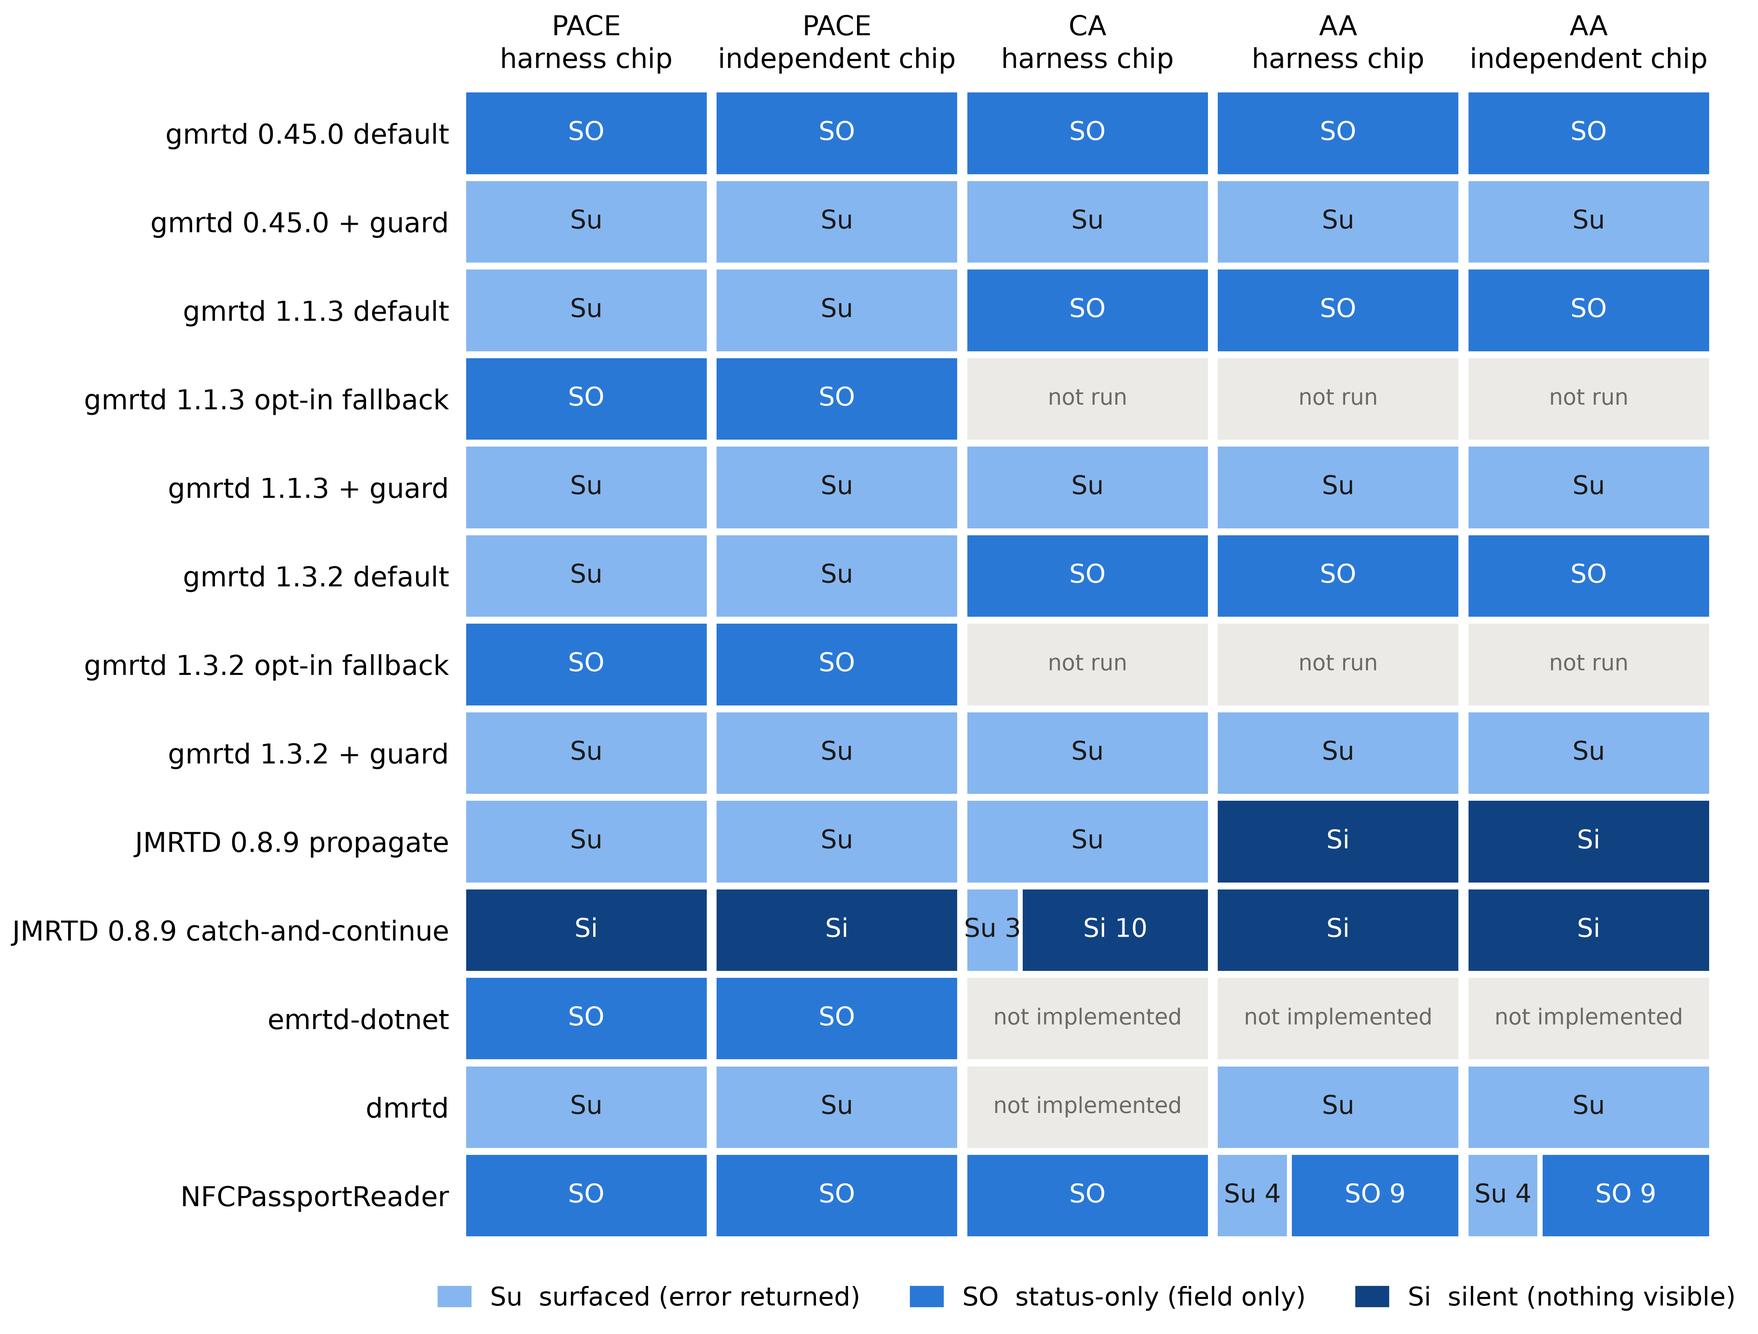
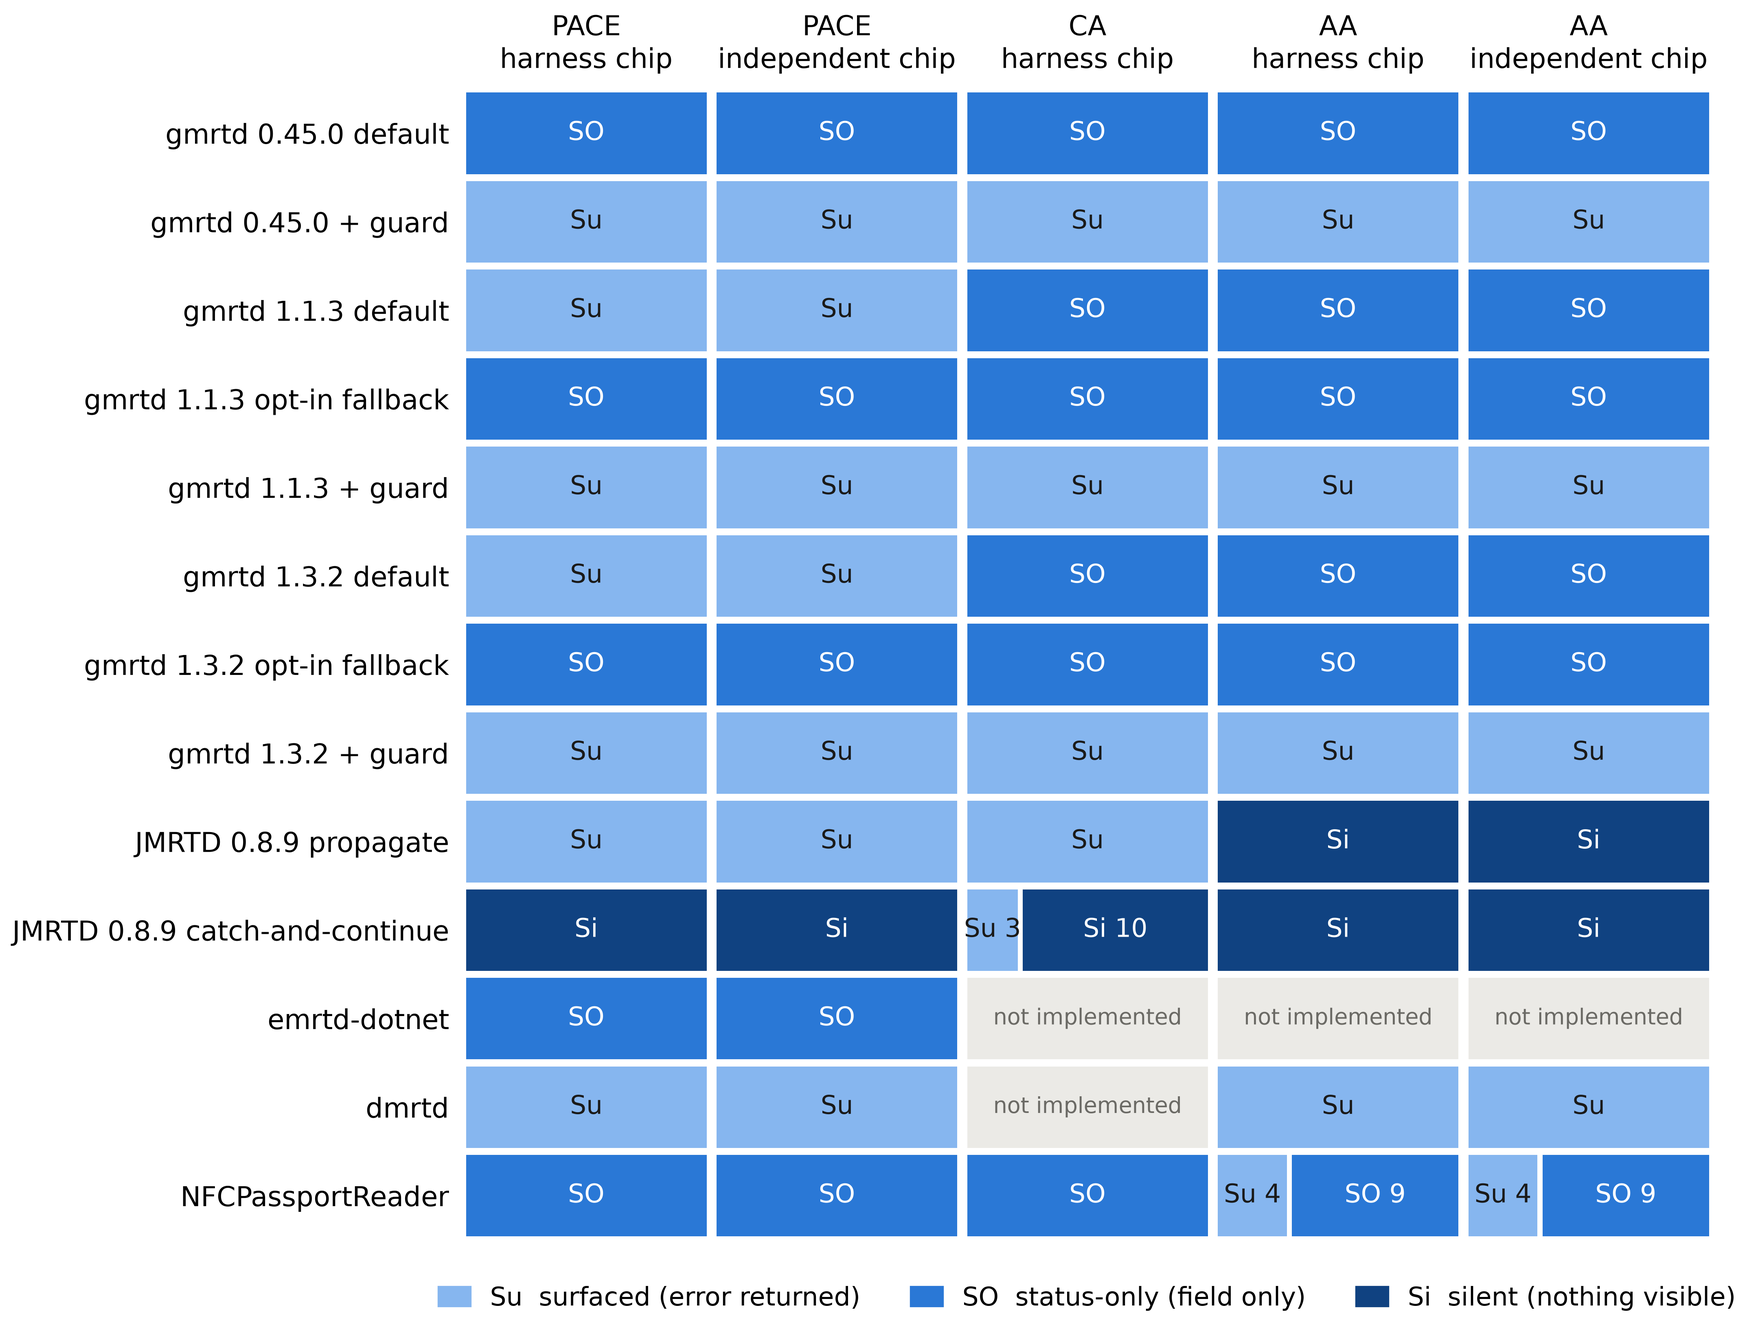
Analysis regenerated from the final run (T55, 57a058a): tables and figures; passauf labelled

Changed region(s): [[0.5276, 0.249, 0.9931, 0.3424], [0.5276, 0.4669, 0.9931, 0.5291]]

diff --git a/analysis/figures_paper.py b/analysis/figures_paper.py
@@ -153,7 +153,8 @@ def outcome_mix(out: Path) -> None:
     beh = list(csv.DictReader((ROOT / "analysis/out/behaviour.csv").open(encoding="utf-8")))
     arms: dict[str, Counter] = defaultdict(Counter)
     for r in beh:
-        if r["mechanism"] == "CONTROL":
+        # passauf is shown from its held-out run under both readings below, not as an arm row
+        if r["mechanism"] == "CONTROL" or r["arm"].startswith("passauf"):
             continue
         for o, n in re.findall(r"(silent|status_only|surfaced|not_applicable) (\d+)", r["outcomes"]):
             arms[r["arm"]][o] += 1   # cells, not runs: each row is one fault point on one chip

diff --git a/analysis/analyze.py b/analysis/analyze.py
@@ -42,6 +42,7 @@ ARM_ORDER = [
     ("emrtd-dotnet", "default", "emrtd-dotnet"),
     ("dmrtd", "default", "dmrtd"),
     ("nfcpassportreader", "default", "NFCPassportReader"),
+    ("passauf", "default", "passauf (held out)"),
 ]
 LABEL = {(lib, var): label for lib, var, label in ARM_ORDER}
 ORDER = {(lib, var): i for i, (lib, var, _) in enumerate(ARM_ORDER)}

diff --git a/analysis/out/RESULTS.md b/analysis/out/RESULTS.md
@@ -1,6 +1,6 @@
 # Results (generated by analysis/analyze.py)
 
-Runs read: 1601 (1001 single-run entries, 600 repeat runs).
+Runs read: 1827 (1127 single-run entries, 700 repeat runs).
 
 ## Behaviour classes per arm, mechanism and fault point
 
@@ -42,6 +42,9 @@ Runs read: 1601 (1001 single-run entries, 600 repeat runs).
 | gmrtd 1.1.3 default | PACE | independent | PACE/general_authenticate_step4 | 3 | surfaced 3 |
 | gmrtd 1.1.3 default | PACE | independent | PACE/mse_set_at | 3 | surfaced 3 |
 | gmrtd 1.1.3 default | PACE | independent | control | 2 | not_applicable 2 |
+| gmrtd 1.1.3 opt-in fallback | AA | harness | AA/internal_authenticate | 13 | status_only 13 |
+| gmrtd 1.1.3 opt-in fallback | AA | independent | AA/internal_authenticate | 13 | status_only 13 |
+| gmrtd 1.1.3 opt-in fallback | CA | harness | CA/mse_set_at | 13 | status_only 13 |
 | gmrtd 1.1.3 opt-in fallback | PACE | harness | PACE/general_authenticate | 16 | status_only 16 |
 | gmrtd 1.1.3 opt-in fallback | PACE | harness | PACE/mse_set_at | 16 | status_only 16 |
 | gmrtd 1.1.3 opt-in fallback | PACE | harness | control | 2 | not_applicable 2 |
@@ -75,6 +78,9 @@ Runs read: 1601 (1001 single-run entries, 600 repeat runs).
 | gmrtd 1.3.2 default | PACE | independent | PACE/general_authenticate_step4 | 3 | surfaced 3 |
 | gmrtd 1.3.2 default | PACE | independent | PACE/mse_set_at | 3 | surfaced 3 |
 | gmrtd 1.3.2 default | PACE | independent | control | 2 | not_applicable 2 |
+| gmrtd 1.3.2 opt-in fallback | AA | harness | AA/internal_authenticate | 13 | status_only 13 |
+| gmrtd 1.3.2 opt-in fallback | AA | independent | AA/internal_authenticate | 13 | status_only 13 |
+| gmrtd 1.3.2 opt-in fallback | CA | harness | CA/mse_set_at | 13 | status_only 13 |
 | gmrtd 1.3.2 opt-in fallback | PACE | harness | PACE/general_authenticate | 16 | status_only 16 |
 | gmrtd 1.3.2 opt-in fallback | PACE | harness | PACE/mse_set_at | 16 | status_only 16 |
 | gmrtd 1.3.2 opt-in fallback | PACE | harness | control | 2 | not_applicable 2 |
@@ -152,6 +158,15 @@ Runs read: 1601 (1001 single-run entries, 600 repeat runs).
 | NFCPassportReader | PACE | independent | PACE/general_authenticate_step4 | 3 | status_only 3 |
 | NFCPassportReader | PACE | independent | PACE/mse_set_at | 3 | status_only 3 |
 | NFCPassportReader | PACE | independent | control | 2 | not_applicable 2 |
+| passauf (held out) | PACE | harness | PACE/general_authenticate | 16 | status_only 13, surfaced 3 |
+| passauf (held out) | PACE | harness | PACE/mse_set_at | 16 | status_only 12, surfaced 3, silent 1 |
+| passauf (held out) | PACE | harness | control | 2 | not_applicable 2 |
+| passauf (held out) | PACE | independent | PACE/general_authenticate_step1 | 2 | status_only 2 |
+| passauf (held out) | PACE | independent | PACE/general_authenticate_step2 | 2 | status_only 2 |
+| passauf (held out) | PACE | independent | PACE/general_authenticate_step3 | 2 | status_only 2 |
+| passauf (held out) | PACE | independent | PACE/general_authenticate_step4 | 3 | status_only 3 |
+| passauf (held out) | PACE | independent | PACE/mse_set_at | 3 | status_only 3 |
+| passauf (held out) | PACE | independent | control | 2 | not_applicable 2 |
 
 ## Outcomes that depend on the failure kind
 
@@ -160,6 +175,8 @@ Runs read: 1601 (1001 single-run entries, 600 repeat runs).
 | JMRTD 0.8.9 catch-and-continue | CA | harness | CA/mse_set_at | silent: 6300 6800 6900 6982 6A00 6A80 6A88 6B00 6C00 6E00; surfaced: 6700 6F00 6FFF |
 | NFCPassportReader | AA | harness | AA/internal_authenticate | status_only: 6300 6700 6800 6900 6A00 6B00 6C00 6E00 6F00; surfaced: 6982 6A80 6A88 6FFF |
 | NFCPassportReader | AA | independent | AA/internal_authenticate | status_only: 6300 6700 6800 6900 6A00 6B00 6C00 6E00 6F00; surfaced: 6982 6A80 6A88 6FFF |
+| passauf (held out) | PACE | harness | PACE/general_authenticate | status_only: 6300 6700 6800 6900 6982 6A00 6A80 6A88 6B00 6C00 6E00 6F00 6FFF; surfaced: no-response timeout transport-abort |
+| passauf (held out) | PACE | harness | PACE/mse_set_at | silent: 6C00; status_only: 6300 6700 6800 6900 6982 6A00 6A80 6A88 6B00 6E00 6F00 6FFF; surfaced: no-response timeout transport-abort |
 
 ## Pairwise agreement between arms (cells both arms scored)
 
@@ -169,86 +186,99 @@ Kappa is n/a when both arms give one outcome throughout (no variation to correct
 | --- | --- | --- | --- | --- | --- |
 | gmrtd 0.45.0 default | gmrtd 0.45.0 + guard | 83 | 0 | 0.00 | 0.00 |
 | gmrtd 0.45.0 default | gmrtd 1.1.3 default | 83 | 39 | 0.47 | 0.00 |
-| gmrtd 0.45.0 default | gmrtd 1.1.3 opt-in fallback | 44 | 44 | 1.00 | n/a |
+| gmrtd 0.45.0 default | gmrtd 1.1.3 opt-in fallback | 83 | 83 | 1.00 | n/a |
 | gmrtd 0.45.0 default | gmrtd 1.1.3 + guard | 83 | 0 | 0.00 | 0.00 |
 | gmrtd 0.45.0 default | gmrtd 1.3.2 default | 83 | 39 | 0.47 | 0.00 |
-| gmrtd 0.45.0 default | gmrtd 1.3.2 opt-in fallback | 44 | 44 | 1.00 | n/a |
+| gmrtd 0.45.0 default | gmrtd 1.3.2 opt-in fallback | 83 | 83 | 1.00 | n/a |
 | gmrtd 0.45.0 default | gmrtd 1.3.2 + guard | 83 | 0 | 0.00 | 0.00 |
 | gmrtd 0.45.0 default | JMRTD 0.8.9 propagate | 83 | 0 | 0.00 | 0.00 |
 | gmrtd 0.45.0 default | JMRTD 0.8.9 catch-and-continue | 83 | 0 | 0.00 | 0.00 |
 | gmrtd 0.45.0 default | emrtd-dotnet | 44 | 44 | 1.00 | n/a |
 | gmrtd 0.45.0 default | dmrtd | 70 | 0 | 0.00 | 0.00 |
 | gmrtd 0.45.0 default | NFCPassportReader | 83 | 75 | 0.90 | 0.00 |
+| gmrtd 0.45.0 default | passauf (held out) | 44 | 37 | 0.84 | 0.00 |
 | gmrtd 0.45.0 + guard | gmrtd 1.1.3 default | 83 | 44 | 0.53 | 0.00 |
-| gmrtd 0.45.0 + guard | gmrtd 1.1.3 opt-in fallback | 44 | 0 | 0.00 | 0.00 |
+| gmrtd 0.45.0 + guard | gmrtd 1.1.3 opt-in fallback | 83 | 0 | 0.00 | 0.00 |
 | gmrtd 0.45.0 + guard | gmrtd 1.1.3 + guard | 83 | 83 | 1.00 | n/a |
 | gmrtd 0.45.0 + guard | gmrtd 1.3.2 default | 83 | 44 | 0.53 | 0.00 |
-| gmrtd 0.45.0 + guard | gmrtd 1.3.2 opt-in fallback | 44 | 0 | 0.00 | 0.00 |
+| gmrtd 0.45.0 + guard | gmrtd 1.3.2 opt-in fallback | 83 | 0 | 0.00 | 0.00 |
 | gmrtd 0.45.0 + guard | gmrtd 1.3.2 + guard | 83 | 83 | 1.00 | n/a |
 | gmrtd 0.45.0 + guard | JMRTD 0.8.9 propagate | 83 | 57 | 0.69 | 0.00 |
 | gmrtd 0.45.0 + guard | JMRTD 0.8.9 catch-and-continue | 83 | 3 | 0.04 | 0.00 |
 | gmrtd 0.45.0 + guard | emrtd-dotnet | 44 | 0 | 0.00 | 0.00 |
 | gmrtd 0.45.0 + guard | dmrtd | 70 | 70 | 1.00 | n/a |
 | gmrtd 0.45.0 + guard | NFCPassportReader | 83 | 8 | 0.10 | 0.00 |
-| gmrtd 1.1.3 default | gmrtd 1.1.3 opt-in fallback | 44 | 0 | 0.00 | 0.00 |
+| gmrtd 0.45.0 + guard | passauf (held out) | 44 | 6 | 0.14 | 0.00 |
+| gmrtd 1.1.3 default | gmrtd 1.1.3 opt-in fallback | 83 | 39 | 0.47 | 0.00 |
 | gmrtd 1.1.3 default | gmrtd 1.1.3 + guard | 83 | 44 | 0.53 | 0.00 |
 | gmrtd 1.1.3 default | gmrtd 1.3.2 default | 83 | 83 | 1.00 | 1.00 |
-| gmrtd 1.1.3 default | gmrtd 1.3.2 opt-in fallback | 44 | 0 | 0.00 | 0.00 |
+| gmrtd 1.1.3 default | gmrtd 1.3.2 opt-in fallback | 83 | 39 | 0.47 | 0.00 |
 | gmrtd 1.1.3 default | gmrtd 1.3.2 + guard | 83 | 44 | 0.53 | 0.00 |
 | gmrtd 1.1.3 default | JMRTD 0.8.9 propagate | 83 | 44 | 0.53 | 0.26 |
 | gmrtd 1.1.3 default | JMRTD 0.8.9 catch-and-continue | 83 | 0 | 0.00 | -0.02 |
 | gmrtd 1.1.3 default | emrtd-dotnet | 44 | 0 | 0.00 | 0.00 |
 | gmrtd 1.1.3 default | dmrtd | 70 | 44 | 0.63 | 0.00 |
 | gmrtd 1.1.3 default | NFCPassportReader | 83 | 31 | 0.37 | -0.19 |
-| gmrtd 1.1.3 opt-in fallback | gmrtd 1.1.3 + guard | 44 | 0 | 0.00 | 0.00 |
-| gmrtd 1.1.3 opt-in fallback | gmrtd 1.3.2 default | 44 | 0 | 0.00 | 0.00 |
-| gmrtd 1.1.3 opt-in fallback | gmrtd 1.3.2 opt-in fallback | 44 | 44 | 1.00 | n/a |
-| gmrtd 1.1.3 opt-in fallback | gmrtd 1.3.2 + guard | 44 | 0 | 0.00 | 0.00 |
-| gmrtd 1.1.3 opt-in fallback | JMRTD 0.8.9 propagate | 44 | 0 | 0.00 | 0.00 |
-| gmrtd 1.1.3 opt-in fallback | JMRTD 0.8.9 catch-and-continue | 44 | 0 | 0.00 | 0.00 |
+| gmrtd 1.1.3 default | passauf (held out) | 44 | 6 | 0.14 | 0.00 |
+| gmrtd 1.1.3 opt-in fallback | gmrtd 1.1.3 + guard | 83 | 0 | 0.00 | 0.00 |
+| gmrtd 1.1.3 opt-in fallback | gmrtd 1.3.2 default | 83 | 39 | 0.47 | 0.00 |
+| gmrtd 1.1.3 opt-in fallback | gmrtd 1.3.2 opt-in fallback | 83 | 83 | 1.00 | n/a |
+| gmrtd 1.1.3 opt-in fallback | gmrtd 1.3.2 + guard | 83 | 0 | 0.00 | 0.00 |
+| gmrtd 1.1.3 opt-in fallback | JMRTD 0.8.9 propagate | 83 | 0 | 0.00 | 0.00 |
+| gmrtd 1.1.3 opt-in fallback | JMRTD 0.8.9 catch-and-continue | 83 | 0 | 0.00 | 0.00 |
 | gmrtd 1.1.3 opt-in fallback | emrtd-dotnet | 44 | 44 | 1.00 | n/a |
-| gmrtd 1.1.3 opt-in fallback | dmrtd | 44 | 0 | 0.00 | 0.00 |
-| gmrtd 1.1.3 opt-in fallback | NFCPassportReader | 44 | 44 | 1.00 | n/a |
+| gmrtd 1.1.3 opt-in fallback | dmrtd | 70 | 0 | 0.00 | 0.00 |
+| gmrtd 1.1.3 opt-in fallback | NFCPassportReader | 83 | 75 | 0.90 | 0.00 |
+| gmrtd 1.1.3 opt-in fallback | passauf (held out) | 44 | 37 | 0.84 | 0.00 |
 | gmrtd 1.1.3 + guard | gmrtd 1.3.2 default | 83 | 44 | 0.53 | 0.00 |
-| gmrtd 1.1.3 + guard | gmrtd 1.3.2 opt-in fallback | 44 | 0 | 0.00 | 0.00 |
+| gmrtd 1.1.3 + guard | gmrtd 1.3.2 opt-in fallback | 83 | 0 | 0.00 | 0.00 |
 | gmrtd 1.1.3 + guard | gmrtd 1.3.2 + guard | 83 | 83 | 1.00 | n/a |
 | gmrtd 1.1.3 + guard | JMRTD 0.8.9 propagate | 83 | 57 | 0.69 | 0.00 |
 | gmrtd 1.1.3 + guard | JMRTD 0.8.9 catch-and-continue | 83 | 3 | 0.04 | 0.00 |
 | gmrtd 1.1.3 + guard | emrtd-dotnet | 44 | 0 | 0.00 | 0.00 |
 | gmrtd 1.1.3 + guard | dmrtd | 70 | 70 | 1.00 | n/a |
 | gmrtd 1.1.3 + guard | NFCPassportReader | 83 | 8 | 0.10 | 0.00 |
-| gmrtd 1.3.2 default | gmrtd 1.3.2 opt-in fallback | 44 | 0 | 0.00 | 0.00 |
+| gmrtd 1.1.3 + guard | passauf (held out) | 44 | 6 | 0.14 | 0.00 |
+| gmrtd 1.3.2 default | gmrtd 1.3.2 opt-in fallback | 83 | 39 | 0.47 | 0.00 |
 | gmrtd 1.3.2 default | gmrtd 1.3.2 + guard | 83 | 44 | 0.53 | 0.00 |
 | gmrtd 1.3.2 default | JMRTD 0.8.9 propagate | 83 | 44 | 0.53 | 0.26 |
 | gmrtd 1.3.2 default | JMRTD 0.8.9 catch-and-continue | 83 | 0 | 0.00 | -0.02 |
 | gmrtd 1.3.2 default | emrtd-dotnet | 44 | 0 | 0.00 | 0.00 |
 | gmrtd 1.3.2 default | dmrtd | 70 | 44 | 0.63 | 0.00 |
 | gmrtd 1.3.2 default | NFCPassportReader | 83 | 31 | 0.37 | -0.19 |
-| gmrtd 1.3.2 opt-in fallback | gmrtd 1.3.2 + guard | 44 | 0 | 0.00 | 0.00 |
-| gmrtd 1.3.2 opt-in fallback | JMRTD 0.8.9 propagate | 44 | 0 | 0.00 | 0.00 |
-| gmrtd 1.3.2 opt-in fallback | JMRTD 0.8.9 catch-and-continue | 44 | 0 | 0.00 | 0.00 |
+| gmrtd 1.3.2 default | passauf (held out) | 44 | 6 | 0.14 | 0.00 |
+| gmrtd 1.3.2 opt-in fallback | gmrtd 1.3.2 + guard | 83 | 0 | 0.00 | 0.00 |
+| gmrtd 1.3.2 opt-in fallback | JMRTD 0.8.9 propagate | 83 | 0 | 0.00 | 0.00 |
+| gmrtd 1.3.2 opt-in fallback | JMRTD 0.8.9 catch-and-continue | 83 | 0 | 0.00 | 0.00 |
 | gmrtd 1.3.2 opt-in fallback | emrtd-dotnet | 44 | 44 | 1.00 | n/a |
-| gmrtd 1.3.2 opt-in fallback | dmrtd | 44 | 0 | 0.00 | 0.00 |
-| gmrtd 1.3.2 opt-in fallback | NFCPassportReader | 44 | 44 | 1.00 | n/a |
+| gmrtd 1.3.2 opt-in fallback | dmrtd | 70 | 0 | 0.00 | 0.00 |
+| gmrtd 1.3.2 opt-in fallback | NFCPassportReader | 83 | 75 | 0.90 | 0.00 |
+| gmrtd 1.3.2 opt-in fallback | passauf (held out) | 44 | 37 | 0.84 | 0.00 |
 | gmrtd 1.3.2 + guard | JMRTD 0.8.9 propagate | 83 | 57 | 0.69 | 0.00 |
 | gmrtd 1.3.2 + guard | JMRTD 0.8.9 catch-and-continue | 83 | 3 | 0.04 | 0.00 |
 | gmrtd 1.3.2 + guard | emrtd-dotnet | 44 | 0 | 0.00 | 0.00 |
 | gmrtd 1.3.2 + guard | dmrtd | 70 | 70 | 1.00 | n/a |
 | gmrtd 1.3.2 + guard | NFCPassportReader | 83 | 8 | 0.10 | 0.00 |
+| gmrtd 1.3.2 + guard | passauf (held out) | 44 | 6 | 0.14 | 0.00 |
 | JMRTD 0.8.9 propagate | JMRTD 0.8.9 catch-and-continue | 83 | 29 | 0.35 | 0.03 |
 | JMRTD 0.8.9 propagate | emrtd-dotnet | 44 | 0 | 0.00 | 0.00 |
 | JMRTD 0.8.9 propagate | dmrtd | 70 | 44 | 0.63 | 0.00 |
 | JMRTD 0.8.9 propagate | NFCPassportReader | 83 | 0 | 0.00 | -0.07 |
+| JMRTD 0.8.9 propagate | passauf (held out) | 44 | 6 | 0.14 | 0.00 |
 | JMRTD 0.8.9 catch-and-continue | emrtd-dotnet | 44 | 0 | 0.00 | 0.00 |
 | JMRTD 0.8.9 catch-and-continue | dmrtd | 70 | 0 | 0.00 | 0.00 |
 | JMRTD 0.8.9 catch-and-continue | NFCPassportReader | 83 | 0 | 0.00 | -0.00 |
+| JMRTD 0.8.9 catch-and-continue | passauf (held out) | 44 | 1 | 0.02 | 0.00 |
 | emrtd-dotnet | dmrtd | 44 | 0 | 0.00 | 0.00 |
 | emrtd-dotnet | NFCPassportReader | 44 | 44 | 1.00 | n/a |
+| emrtd-dotnet | passauf (held out) | 44 | 37 | 0.84 | 0.00 |
 | dmrtd | NFCPassportReader | 70 | 8 | 0.11 | 0.00 |
+| dmrtd | passauf (held out) | 44 | 6 | 0.14 | 0.00 |
+| NFCPassportReader | passauf (held out) | 44 | 37 | 0.84 | 0.00 |
 
 ## Cross-check: harness chip vs independent chip
 
-208 of 208 paired cells give the same outcome on both chips (195 of 195 where both runs were applicable).
+240 of 240 paired cells give the same outcome on both chips (226 of 226 where both runs were applicable).
 
 | arm | mechanism | fault point | failure | harness chip | independent chip | same |
 | --- | --- | --- | --- | --- | --- | --- |
@@ -309,6 +339,19 @@ Kappa is n/a when both arms give one outcome throughout (no variation to correct
 | gmrtd 1.1.3 default | PACE | PACE/mse_set_at | 6A88 | surfaced | surfaced | yes |
 | gmrtd 1.1.3 default | PACE | PACE/mse_set_at | 6F00 | surfaced | surfaced | yes |
 | gmrtd 1.1.3 default | PACE | control | none | not_applicable | not_applicable | yes |
+| gmrtd 1.1.3 opt-in fallback | AA | AA/internal_authenticate | 6300 | status_only | status_only | yes |
+| gmrtd 1.1.3 opt-in fallback | AA | AA/internal_authenticate | 6700 | status_only | status_only | yes |
+| gmrtd 1.1.3 opt-in fallback | AA | AA/internal_authenticate | 6800 | status_only | status_only | yes |
+| gmrtd 1.1.3 opt-in fallback | AA | AA/internal_authenticate | 6900 | status_only | status_only | yes |
+| gmrtd 1.1.3 opt-in fallback | AA | AA/internal_authenticate | 6982 | status_only | status_only | yes |
+| gmrtd 1.1.3 opt-in fallback | AA | AA/internal_authenticate | 6A00 | status_only | status_only | yes |
+| gmrtd 1.1.3 opt-in fallback | AA | AA/internal_authenticate | 6A80 | status_only | status_only | yes |
+| gmrtd 1.1.3 opt-in fallback | AA | AA/internal_authenticate | 6A88 | status_only | status_only | yes |
+| gmrtd 1.1.3 opt-in fallback | AA | AA/internal_authenticate | 6B00 | status_only | status_only | yes |
+| gmrtd 1.1.3 opt-in fallback | AA | AA/internal_authenticate | 6C00 | status_only | status_only | yes |
+| gmrtd 1.1.3 opt-in fallback | AA | AA/internal_authenticate | 6E00 | status_only | status_only | yes |
+| gmrtd 1.1.3 opt-in fallback | AA | AA/internal_authenticate | 6F00 | status_only | status_only | yes |
+| gmrtd 1.1.3 opt-in fallback | AA | AA/internal_authenticate | 6FFF | status_only | status_only | yes |
 | gmrtd 1.1.3 opt-in fallback | PACE | PACE/general_authenticate | 6A80 | status_only | status_only | yes |
 | gmrtd 1.1.3 opt-in fallback | PACE | PACE/general_authenticate | 6F00 | status_only | status_only | yes |
 | gmrtd 1.1.3 opt-in fallback | PACE | PACE/mse_set_at | 6A80 | status_only | status_only | yes |
@@ -353,6 +396,19 @@ Kappa is n/a when both arms give one outcome throughout (no variation to correct
 | gmrtd 1.3.2 default | PACE | PACE/mse_set_at | 6A88 | surfaced | surfaced | yes |
 | gmrtd 1.3.2 default | PACE | PACE/mse_set_at | 6F00 | surfaced | surfaced | yes |
 | gmrtd 1.3.2 default | PACE | control | none | not_applicable | not_applicable | yes |
+| gmrtd 1.3.2 opt-in fallback | AA | AA/internal_authenticate | 6300 | status_only | status_only | yes |
+| gmrtd 1.3.2 opt-in fallback | AA | AA/internal_authenticate | 6700 | status_only | status_only | yes |
+| gmrtd 1.3.2 opt-in fallback | AA | AA/internal_authenticate | 6800 | status_only | status_only | yes |
+| gmrtd 1.3.2 opt-in fallback | AA | AA/internal_authenticate | 6900 | status_only | status_only | yes |
+| gmrtd 1.3.2 opt-in fallback | AA | AA/internal_authenticate | 6982 | status_only | status_only | yes |
+| gmrtd 1.3.2 opt-in fallback | AA | AA/internal_authenticate | 6A00 | status_only | status_only | yes |
+| gmrtd 1.3.2 opt-in fallback | AA | AA/internal_authenticate | 6A80 | status_only | status_only | yes |
+| gmrtd 1.3.2 opt-in fallback | AA | AA/internal_authenticate | 6A88 | status_only | status_only | yes |
+| gmrtd 1.3.2 opt-in fallback | AA | AA/internal_authenticate | 6B00 | status_only | status_only | yes |
+| gmrtd 1.3.2 opt-in fallback | AA | AA/internal_authenticate | 6C00 | status_only | status_only | yes |
+| gmrtd 1.3.2 opt-in fallback | AA | AA/internal_authenticate | 6E00 | status_only | status_only | yes |
+| gmrtd 1.3.2 opt-in fallback | AA | AA/internal_authenticate | 6F00 | status_only | status_only | yes |
+| gmrtd 1.3.2 opt-in fallback | AA | AA/internal_authenticate | 6FFF | status_only | status_only | yes |
 | gmrtd 1.3.2 opt-in fallback | PACE | PACE/general_authenticate | 6A80 | status_only | status_only | yes |
 | gmrtd 1.3.2 opt-in fallback | PACE | PACE/general_authenticate | 6F00 | status_only | status_only | yes |
 | gmrtd 1.3.2 opt-in fallback | PACE | PACE/mse_set_at | 6A80 | status_only | status_only | yes |
@@ -460,15 +516,22 @@ Kappa is n/a when both arms give one outcome throughout (no variation to correct
 | NFCPassportReader | PACE | PACE/mse_set_at | 6A88 | status_only | status_only | yes |
 | NFCPassportReader | PACE | PACE/mse_set_at | 6F00 | status_only | status_only | yes |
 | NFCPassportReader | PACE | control | none | not_applicable | not_applicable | yes |
+| passauf (held out) | PACE | PACE/general_authenticate | 6A80 | status_only | status_only | yes |
+| passauf (held out) | PACE | PACE/general_authenticate | 6F00 | status_only | status_only | yes |
+| passauf (held out) | PACE | PACE/mse_set_at | 6A80 | status_only | status_only | yes |
+| passauf (held out) | PACE | PACE/mse_set_at | 6A88 | status_only | status_only | yes |
+| passauf (held out) | PACE | PACE/mse_set_at | 6F00 | status_only | status_only | yes |
+| passauf (held out) | PACE | control | none | not_applicable | not_applicable | yes |
 
 ## PACE positive control on the independent chip (repeat suite)
 
 | arm | runs | PACE succeeded | PACE failed | failure rate | Wilson 95% CI |
 | --- | --- | --- | --- | --- | --- |
-| gmrtd 0.45.0 default | 100 | 99 | 1 | 0.010 | [0.002, 0.054] |
+| gmrtd 0.45.0 default | 100 | 100 | 0 | 0.000 | [0.000, 0.037] |
 | gmrtd 1.1.3 default | 100 | 100 | 0 | 0.000 | [0.000, 0.037] |
 | gmrtd 1.3.2 default | 100 | 100 | 0 | 0.000 | [0.000, 0.037] |
 | JMRTD 0.8.9 propagate | 100 | 100 | 0 | 0.000 | [0.000, 0.037] |
 | emrtd-dotnet | 100 | 100 | 0 | 0.000 | [0.000, 0.037] |
-| dmrtd | 100 | 98 | 2 | 0.020 | [0.006, 0.070] |
+| dmrtd | 100 | 94 | 6 | 0.060 | [0.028, 0.125] |
+| passauf (held out) | 100 | 100 | 0 | 0.000 | [0.000, 0.037] |
 
